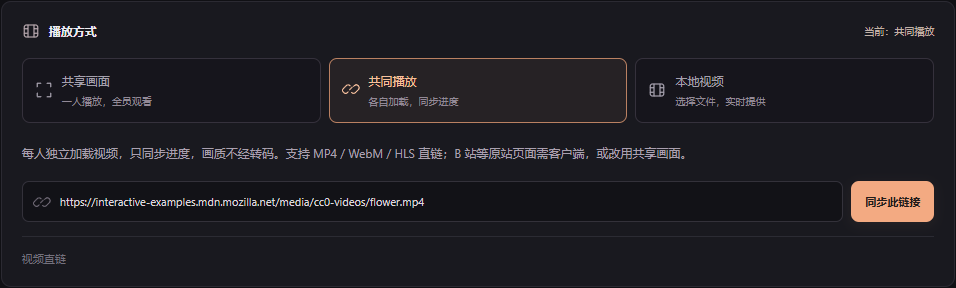
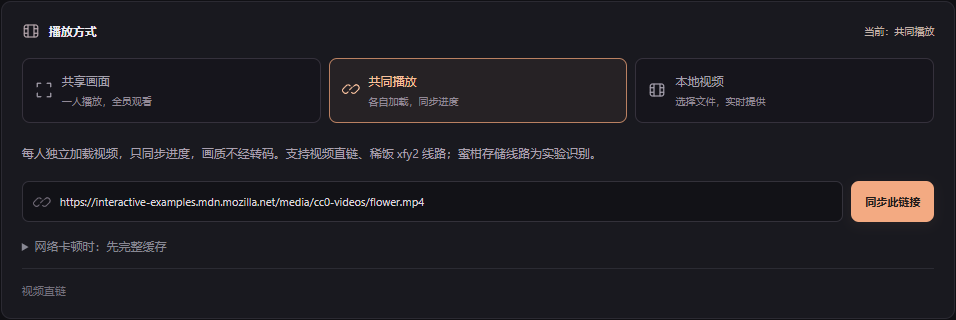
docs: refresh README with current usage and screenshots

diff --git a/README.md b/README.md
@@ -1,113 +1,154 @@
 # VideoSreeeen
 
-一个不需要浏览器扩展的多人观影程序，采用 **GPL-3.0-only**。
+无需浏览器扩展的多人观影程序。支持 **Windows、Android 和浏览器**，提供共同播放、实时画面共享、本地视频与房间聊天。
 
-客户端：**Windows、Android、浏览器**。苹果设备通过浏览器加入，不开发 macOS/iOS 原生客户端。
+**[打开网页版](https://videosreeeen.pages.dev)** · [Windows 安装版](https://github.com/BorderArea01/VideoSreeeen/releases/latest/download/VideoSreeeen-Setup.exe) · [Android APK](https://github.com/BorderArea01/VideoSreeeen/releases/latest/download/VideoSreeeen-Android.apk) · [全部发行版](https://github.com/BorderArea01/VideoSreeeen/releases) · [反馈问题](https://github.com/BorderArea01/VideoSreeeen/issues/new/choose)
 
-网页版入口：**[打开 VideoSreeeen](https://videosreeeen.pages.dev)**。无需注册、安装扩展或自行部署服务器；新客户端默认使用此公共服务。
+> **下载状态 · 2026-10-19：** v0.4.3 安装包已发布，但 GitHub Release 页面匿名访问仍返回 404，公共下载与在线更新尚未恢复。当前可先使用网页版，详情见 [公开访问记录](docs/github-access.md)。
 
-## 使用
+![VideoSreeeen 0.4.3：共同播放、房间成员、聊天与实时弹幕](docs/screenshots/desktop.png)
 
-1. 打开网页版或客户端，创建房间，填写昵称。
-2. 把自动生成的邀请链接发给成员，打开链接后即可加入。服务器地址放在高级设置，普通使用无需配置。
-3. 在播放器下方选择 **共享画面 / 共同播放 / 本地视频**，仅显示对应操作。点击方式标签只切换输入面板，不会中断正在播放的视频；右上角显示房间当前实际采用的方式。
+_当前版本的本地双端实播截图，使用 MDN CC0 示例视频；昵称和消息为演示内容，成员与 RTT 来自实际连接。_
 
-**共享画面**：默认入口，电脑浏览器选择已经播放视频的标签页，并勾选音频。尚未打开视频时展开“还没打开原站？”；单独打开网页不会开始共享。其他成员接收实时画面，进度在原站操作。
+## 开始观看
 
-**共同播放**：每人独立从视频源加载，只同步进度，不重新编码。网页版支持可播放的 MP4 / WebM / HLS 视频直链，以及 **稀饭 xfy2 旧番线路**：浏览器通过原站允许跨域的匿名播放接口获取视频源，不经过房间服务。**蜜柑存储线路仍为实验识别**，正式服务已出现原站 HTTP 403 / 520，不能保证识别成功。原站页面识别后先在提供者浏览器检查首帧加载，成功才更换房间视频；取消、超时或失败保留当前影片。其他未适配原站（如 B 站页面）会明确提示限制，并提供“改用共享画面”；客户端仍保留原站播放器控制。HLS 需要源站允许跨域访问，登录、临时地址、防盗链与设备解码支持可能影响可用性，不能保证所有视频源通用。
+1. 打开[网页版](https://videosreeeen.pages.dev)或客户端，填写昵称并创建房间，无需注册。
+2. 将自动生成的**完整邀请链接**发给朋友，对方填写昵称即可加入。
+3. 在播放器下方选择播放方式，提供视频后开始观看。
 
-**本地视频**：选择本机文件后实时提供，不需要整部上传。提供者保持在线，房间可同步暂停、进度与倍速；推荐 H.264 / AAC 的 MP4。
+普通使用无需填写服务器。自建服务地址收在“设置与帮助 → 连接设置”；邀请链接会自动选择对应服务器。邀请包含入房凭证，请只发给预期成员，六位房间号不能单独作为完整邀请使用。
 
-| 方式              | 使用场景                                | 特点                                                                  |
-| ----------------- | --------------------------------------- | --------------------------------------------------------------------- |
-| 共同播放          | 视频直链或客户端内的原站播放器          | 每人自行播放，保留原始画质；各自需要相应访问权限                      |
-| 共享原站画面      | 一位 Windows 成员在客户端打开并登录原站 | 点“共享原站画面”，其他成员接收音视频，无需登录提供方账号；不传 Cookie |
-| 标签页 / 屏幕共享 | 桌面浏览器已经打开播放器                | 通过浏览器选择标签页并勾选音频；进度和速度在提供方原播放器调整        |
-| 本地视频          | 自己的视频文件                          | 点“打开视频文件”，选择后向房间实时发送，无需整部上传，提供者需在线    |
+## 选择播放方式
 
-共同播放、本地文件及可控原站保留多人操作与服务端冲突裁决。标签页 / 屏幕共享在原站控制进度，观众只有本机声音与全屏。实时画面默认经独立视频 WebSocket 转发，采集目标最高 1080p / 30fps，按网络与设备条件调整，重新编码不保证原画无损。Android 与浏览器可以接收；Android 本地文件使用视频元素或 Canvas / Web Audio 提供画面，真机与 Safari/iOS 尚未验证。推荐 H.264/AAC MP4，其他格式取决于设备解码器。
+| 方式         | 适合什么情况                     | 视频如何到达观众                                                        | 播放控制                                           |
+| ------------ | -------------------------------- | ----------------------------------------------------------------------- | -------------------------------------------------- |
+| **共享画面** | 原站需要登录，或共同播放暂不兼容 | 一位成员提供标签页、屏幕或 Windows 客户端原站的音视频，其他成员接收画面 | 在提供方的原播放器操作；观众可调本机声音和全屏     |
+| **共同播放** | 可播放的视频直链、已适配的原站   | 各人独立加载视频，房间只同步状态，画质不经重新编码                      | 成员均可暂停、拖动和调倍速，冲突由房间服务统一处理 |
+| **本地视频** | 想播放自己电脑或手机上的文件     | 选取文件后实时提供，无需先上传整部视频；提供者保持在线                  | 房间同步暂停、进度与倍速                           |
 
-共同缓存收在“共同播放 → 网络卡顿时：先完整缓存”，默认关闭。它适合视频源可下载、有人边播边卡的情况：每人完整落盘、全员内容一致后播放，看完清理应用缓存；不能修复实时共享画面的卡顿或提升画质。网页完整缓存上限 128 MiB，长视频优先客户端。
+![播放器下方的三种播放方式与共同缓存子入口](docs/screenshots/playback-modes.png)
 
-聊天室文字和 Emoji 默认作为实时弹幕飘过视频，播放器内可关闭并在本机记住设置；加入与重连不重放旧消息，关闭期间的聊天也不补播。图片仍留在聊天室。弹幕分轨、限制长度和积压量，不拦截播放器操作；Windows 原站使用独立本地覆盖窗口，Android 使用独立可信 WebView，聊天内容不会写进原站 DOM 或烧录进共享画面。Android 真机与 Safari/iOS 仍需单独验收。
+切换方式标签只切换输入面板，不会替换正在播放的视频；提交新视频才会切换房间媒体。
 
-成员列表与底部“房间延迟”使用同一组服务端探测 RTT，约 5 秒采样，15 秒无新样本即隐藏旧数值；没有数据时显示 `—`。悬停可查看含义：这是到房间服务器的往返延迟，不能当作共享画面的端到端延迟。新客户端使用独立延迟通知，避免把测量更新当作播放确认；旧客户端仍兼容房间状态通知。
+- **共享画面怎么开始？** 在电脑浏览器打开并播放原站，回到房间点“共享视频标签页”，在浏览器选择窗口中选中该标签页并开启音频。仅点击“打开原站”不会开始共享。Windows 客户端也可在内置原站播放器中选择“共享原站画面”。
+- **共同播放怎么开始？** 粘贴可播放的 MP4 / WebM / HLS 直链，或受支持的原站页面。页面识别后先检查提供者能否加载首帧，成功才替换房间视频；失败或取消保留当前影片。
+- **本地文件怎么选？** 点“本地视频 → 打开视频文件”。推荐 H.264 / AAC 的 MP4，其他编码取决于设备支持。
 
-**共同缓存默认关闭。** 仅在大家都卡时展开“共同缓存”手动启用；适用于可完整下载的 MP4 / DASH 等源，各人完整落盘并校验一致后播放，看完清理。实时画面不使用共同缓存。浏览器完整缓存上限仍为 128 MiB，长视频缓存使用客户端。
+## 房间功能
 
-聊天室固定高度，消息在内部上下滚动；上翻历史时新消息不会强行拉回底部。支持文字、Emoji 和单张最多 **20 MiB** 的 GIF / PNG / JPEG / WebP 原图，输入框支持直接粘贴截图或剪贴板图片，发送图片保留现有文字草稿。点击可查看原图，GIF 不强制转成静态图片。图片独立传输，聊天快照只存引用；单房间图片总量 64 MiB，历史滚动或房间过期后清理。侧栏可以隐藏、拖拽，成员旁显示到房间服务的真实 RTT。
+- **文字、Emoji 与图片聊天**：聊天室固定高度、内部滚动，查看历史时不被新消息强行拉到底部；侧栏可隐藏和拖拽。
+- **粘贴截图**：输入框支持直接粘贴剪贴板图片，保留文字草稿。GIF / PNG / JPEG / WebP 单张最多 **20 MiB**，可查看原图；单房间图片总量限 64 MiB。
+- **实时聊天弹幕**：新文字和 Emoji 可以飘过视频，支持关闭；重连不重放历史消息。图片留在聊天室，弹幕不会烧录进共享画面。
+- **成员延迟**：显示实际测得的服务器 RTT，过期显示未知。这是到房间服务的往返延迟，**不是画面延迟**。
+- **下一集**：共同播放可读取原站明确提供的下一集地址，统一为房间换片；喜番为同番同线路，蜜柑为客户端原站配置，B 站为同一 BV 的下一分 P。末集或识别失败不影响当前视频。
+- **手动共同缓存**：收在共同播放分支，默认关闭。适合可下载的视频源，不能用于实时画面。
 
-共同播放的视频来源栏提供“下一集”：读取原站明确给出的下一集地址，由房间服务统一切换，全员仍使用同一控制冲突规则。喜番支持同一番剧和线路；蜜柑客户端读取原站播放配置；B 站支持同一 BV 视频的下一分 P，不把推荐视频或广告当作下一集。正在播放时切集，提供者加载出首帧后再让全员开始；暂停时切集保持暂停。到末集、识别失败或已被其他成员换片时保留现有视频。纯浏览器蜜柑仍受原站对服务器访问的限制。
+<details>
+<summary>手机浏览器界面</summary>
 
-**客户端：[Windows 安装版](https://github.com/BorderArea01/VideoSreeeen/releases/latest/download/VideoSreeeen-Setup.exe) · [Android APK](https://github.com/BorderArea01/VideoSreeeen/releases/latest/download/VideoSreeeen-Android.apk) · [全部版本与校验和](https://github.com/BorderArea01/VideoSreeeen/releases)。**
+<img src="docs/screenshots/mobile.png" alt="390px 手机浏览器布局：视频、播放方式、成员和可滚动聊天室" width="300">
 
-当前 GitHub 账号的匿名公开访问异常：主页、仓库和 Release 返回 404，公共下载与在线更新暂不可用；安装包已生成并上传，详情和支持请求草稿见 [github-access.md](docs/github-access.md)。网页与房间服务可使用。
+截图为桌面浏览器的 390px 视口，展示响应式布局，不代表 Android 或 iOS 真机验收。
 
-Windows 安装版支持应用内下载和重启更新，便携版仍提供。Android 应用内下载后交给系统确认安装，正式版保持固定包名和签名，不需要卸载旧版；之前的 debug APK 与首个正式 APK 签名不同，不能直接覆盖。苹果设备使用网页版。发布与签名维护见 [updates.md](docs/updates.md)。
+</details>
 
-原站的登录、画质与付费权限仍由原站决定，提供方自行完成验证。浏览器不能直接控制跨站 iframe；可以接收成员共享的实时音视频。画面默认通过独立 WebSocket 正式转发，不再等待直连失败，也不并行启动视频 WebRTC 编码。共享者可选流畅、高清（默认）或高画质；接收端使用约 2.5 秒起步的短缓冲抵御网络波动。使用现有 Workers Free 额度，不启用收费 TURN，额度超限时会不可用。共同缓存仍是单独的手动模式。
+## 原站兼容情况
 
-**客户端 B 站登录**：在“设置与帮助 → 原站账号 · B 站登录”打开官方登录页，可扫码或按原站正常流程登录。关闭登录窗口会刷新当前 B 站原站播放器。登录会话保存在本机客户端，与原站播放器共用；Cookie 不返回给房间页面、不上传服务器，也不导入系统浏览器的 Cookie。退出账号请在该原站窗口操作。共同播放时每位客户端使用自己的访问权限，不能用一个人的登录态让所有人获得相同画质；需要由一人提供画面时，仍可选共享画面。网页版没有跨站读取 Cookie 的入口。
+以下是 **0.4.3 的实际验证范围**，不是对站点全部线路和视频的保证。
 
-2026-10-19 复验中，双 Windows 原站共同播放已实际解码 B 站游客 360p、蜜柑 1080p，并同步暂停、进度、倍速和原站内拖动。蜜柑 Windows 提供源、浏览器观看也通过；纯网页版蜜柑识别和 B 站 CDN 直链仍有限制。详见 [原站与本地登录验证](docs/verification-native-sites.md)，不以 Windows 测试代替 Android 或登录后高清验收。
+| 视频来源                       | 纯浏览器共同播放                                     | Windows 客户端共同播放                               |
+| ------------------------------ | ---------------------------------------------------- | ---------------------------------------------------- |
+| MP4 / WebM / HLS 视频直链      | 支持；需要源站允许访问、跨域和设备支持解码           | 支持；仍受源站访问权限与编码限制                     |
+| 喜番／稀饭 `next.xifanacg.com` | 已实播验证 xfy2 旧番线路 1080p、音频、同步和下一集   | 可使用已适配的视频源；其他线路需分别验证             |
+| 蜜柑 `mgnacg.com`              | 存储线路为实验识别，存在原站 403 / 520，不能保证可用 | 已实播验证原站 1080p、音频、双端同步和下一集         |
+| B 站 `bilibili.com/video`      | 暂不能把页面当作通用直链播放，建议共享画面           | 已实播验证游客 360p 原站同步；登录后高清仍需单独验收 |
 
-邀请包含入房凭证，请发给预期成员。六位房间号不能独立加入，跨服务器请使用完整邀请链接。Windows、Android、公开网页的验证边界见 [verification.md](docs/verification.md)。
+原站仍可能因线路调整、登录、临时链接、防盗链或网络条件失效。识别到 URL 不等于能播放，具体证据见 [原站验证](docs/verification-native-sites.md)、[共同播放与聊天验证](docs/verification-chat-playback.md)。
 
-![VideoSreeeen 播放方式选择](docs/screenshots/playback-modes.png)
+**B 站登录态只留在本机。** 客户端通过官方页面登录并复用自己的原站会话，不读取系统浏览器 Cookie、不把 Cookie 上传服务器或交给房间成员。共同播放时每个人使用自己的访问权限；希望由一人提供画面时，选择共享画面。登录、付费和 DRM 限制仍由原站决定。
 
-## 本地启动
+## 客户端与更新
 
-需要 Node.js 22+、npm。开发依赖使用锁文件固定。
+| 平台                | 入口                                                                                                                                                                    | 当前边界                                                         |
+| ------------------- | ----------------------------------------------------------------------------------------------------------------------------------------------------------------------- | ---------------------------------------------------------------- |
+| Windows x64         | [安装版](https://github.com/BorderArea01/VideoSreeeen/releases/latest/download/VideoSreeeen-Setup.exe)／[便携版](https://github.com/BorderArea01/VideoSreeeen/releases) | 安装版支持应用内下载并重启更新，已做实际成品验证                 |
+| Android 8.0+        | [APK](https://github.com/BorderArea01/VideoSreeeen/releases/latest/download/VideoSreeeen-Android.apk)                                                                   | 应用内下载后由系统确认覆盖安装；已生成发行包，设备实测待补齐     |
+| 浏览器              | [直接打开](https://videosreeeen.pages.dev)                                                                                                                              | 无需安装；标签页共享由电脑浏览器发起，移动端按实际浏览器能力使用 |
+| iPhone / iPad / Mac | [浏览器入口](https://videosreeeen.pages.dev)                                                                                                                            | 不开发苹果原生客户端；Safari / iOS 实播、后台与锁屏仍待验收      |
 
-```powershell
+更新和下载目前受上方 GitHub 公开访问问题影响。Android 正式版保持固定包名和签名，可覆盖同签名旧版；早期 debug APK 与正式版签名不同，不能直接覆盖。发布步骤、签名与校验和说明见 [更新与分发](docs/updates.md)。
+
+## 使用前了解
+
+**实时共享有缓冲与画质损耗。** 默认经独立 WebSocket 视频通道转发，不依赖远程 WebRTC 直连成功。提供者可选流畅、高清或高画质，采集目标最高 1080p / 30fps；实际效果取决于设备与网络，接收端约 2.5 秒起步缓冲。目前最多 4 位观众接收，提供者保持在线。
+
+**公共服务有免费额度限制。** 当前使用 Cloudflare Workers Free + Durable Objects，不启用收费 TURN，也不自动升级付费。额度耗尽或网络不可达时可能无法使用；开源用户可自行部署。公共部署关闭原站视频文件代理，视频直链共同播放仍从原 CDN 加载。
+
+<details>
+<summary>共同缓存适合什么情况？有哪些限制？</summary>
+
+当大家能取得视频源，但边播边看容易卡顿时，可以展开“共同播放 → 网络卡顿时：先完整缓存”。每人先完整下载并校验内容一致，全员就绪后播放。它不能提升原画质，也不能修复实时画面共享的卡顿。
+
+| 平台              | 完整缓存范围                                                                                                 |
+| ----------------- | ------------------------------------------------------------------------------------------------------------ |
+| Windows / Android | 完整文件、分离音视频和有限的非加密 HLS；默认最多 4 GiB，预留 256 MiB 磁盘空间                                |
+| 浏览器            | 已知长度的小型文件／分离音视频；每轨最多 96 MiB，总计最多 128 MiB，受浏览器存储配额限制；不支持完整 HLS 缓存 |
+
+MP4 / DASH 分块可在同房间成员间通过 WebRTC 互传，直连失败时回退源站下载；HLS 暂不支持互传，不接入公共磁力网络、DHT 或 Tracker。
+
+全员结束后清理本应用创建的缓存，不删除用户原有文件。异常退出的原生缓存下次启动清扫；浏览器遗留缓存超过 24 小时后在后续访问清理，避免影响其他活跃标签页。
+
+</details>
+
+## 本地开发
+
+需要 **Node.js 22+、npm**。从源码启动：
+
+```sh
 npm ci
 npm run build
 npm start
 ```
 
-浏览器打开 `http://localhost:8787`。Windows 可直接运行便携版 EXE，或运行 `npm run desktop`；顶部的“打开网页版”会打开当前服务器地址。Windows 客户端仍内置房间服务，可以在连接设置切换到电脑的局域网地址。端口被其他进程占用时改用空闲端口，不停止其他进程。退出 Windows 客户端会停止它自己的内置服务，不影响公共服务。
+打开 `http://localhost:8787`。开发时分别运行 `npm run dev` 和 `npm run dev:ui`；Windows 壳使用 `npm run desktop`，复用已构建的界面与服务。
 
-手机使用默认公共服务时不需配置。自建用户在高级设置填写可达地址，而不是手机自己的 `localhost`；完整邀请自动选择对应服务器。局域网外自建需要部署公网 HTTPS 服务。Windows 防火墙需允许对应端口连接，程序不会自行修改防火墙。本机开发请遵守下方受控构建要求。
+```sh
+npm run verify            # 格式、单元测试、构建、Worker 类型和 dry-run
+npm run test:worker       # 本地 Workers / Durable Objects 集成验证
+npm run package:windows   # Windows x64 安装版与便携版
+```
 
-开发时可分别运行 `npm run dev`（房间服务）和 `npm run dev:ui`（界面）。公开服务必须配置 HTTPS/WSS，代理需支持 WebSocket。Node 自建服务可转发链接视频；实时画面默认使用独立 `/broadcast-relay` 通道，原有直连实现保留供兼容部署使用。
-
-## 构建与验证
-
-本机已经授权无游戏时直接构建，但每轮都必须检测真实游戏进程和资源，不依据窗口或网页标题判断。
+维护工作站的构建与验收通过 `scripts/controlled.ps1` 串行运行，参数遵守 [AGENTS.md](AGENTS.md)。例如：
 
 ```powershell
 ./scripts/controlled.ps1 -File npm.cmd -Arguments @('run','build') -PrioritizeBuildWhenNoGame
-./scripts/controlled.ps1 -File npm.cmd -Arguments @('test') -PrioritizeBuildWhenNoGame
-./scripts/controlled.ps1 -File npm.cmd -Arguments @('run','package:windows') -PrioritizeBuildWhenNoGame
+```
+
+Android 需要 JDK 17+、Android SDK 35、Gradle 8.13；先构建前端，再生成 APK：
+
+```powershell
 ./scripts/build-android.ps1 -SdkRoot '你的 Android SDK 目录' -Gradle '你的 Gradle 8.13/bin/gradle.bat'
 ```
 
-Android 需要 JDK 17+、Android SDK 35、Gradle 8.13。输出调试 APK 为新的独立包 `io.github.borderarea01.videosreeeen`，不覆盖其他应用。Android 发行签名应单独配置，不提交 keystore。
+Windows 产物在 `artifacts/windows/`，APK 在 `artifacts/android/`。发行 APK 需要固定签名，详见 [更新与分发](docs/updates.md)；不要提交签名文件或密钥。
 
-`npm run test:ui` 使用一个 Edge 浏览器上下文、两个页面验证实际房间和真实 CC0 视频，再串行检查 Windows 壳及目标站点；全程静音，截图和结构化证据位于 `.local/`。需要本机 Edge。公网媒体或站点不可访问会导致相应验收失败，不作为通过处理。
+涉及播放器、邀请、聊天、互传或原站适配时，还需运行对应端到端验收。现有浏览器脚本使用 Windows Edge；不能以桌面视口测试代替手机真机验证。检查入口与证据见 [验证记录](docs/verification.md)。
 
-## 共同缓存的范围
+## 自行部署
 
-Windows/Android：支持完整文件、分离音视频和有限、非加密 HLS（含音频子列表）；流式落盘，默认最多 4 GiB 且预留 256 MiB 磁盘空间。直播、加密、字节范围 HLS 和超过分片上限的源明确拒绝。所有端必须选择相同媒体版本。
+| 方案                 | 需要什么                                               | 说明                                                                                                                    |
+| -------------------- | ------------------------------------------------------ | ----------------------------------------------------------------------------------------------------------------------- |
+| **Cloudflare**       | Workers Free、SQLite Durable Objects；可选 Pages 入口  | 无需 VPS 或独立数据库，房间状态持久化；受免费额度限制。[部署指南](docs/cloudflare.md)                                   |
+| **Node.js / Docker** | 可运行 Node 的服务器及支持 WebSocket 的 HTTPS 反向代理 | 保留自建后端和视频中转。提供 [Dockerfile](Dockerfile) 与 [compose.yaml](compose.yaml)；房间状态在内存中，重启需重新建房 |
 
-浏览器：当前支持带已知长度的小型文件/分离音视频完整缓存，每轨最多 96 MiB、总计最多 128 MiB，并受存储配额限制；大视频和完整 HLS 缓存请使用客户端。分块先落存储，最后在有上限的内存中组装播放；原生端不整片读入内存。浏览器异常退出的缓存下次访问超过 24 小时才清理，避免清理其他活跃标签页。原生客户端下次启动会清扫上次遗留的应用缓存。
+公开部署需提供 HTTPS / WSS。Node 服务默认监听 `0.0.0.0:8787`，可通过 `HOST`、`PORT`、`ALLOWED_ORIGINS` 配置；空房间 15 分钟后清理，`/healthz` 用于健康检查。当前 Node 后端不支持多节点共享房间。
 
-自动清理不删除用户原有视频或其他应用数据。全员结束前，先结束的成员仍保留自己的缓存，方便等候其他人。
+自建域名需更新 `.env.production` 中的公开变量 `VITE_PUBLIC_SERVER`，并配置允许的前端来源；不要把密钥放入前端环境变量。手机访问自建服务应填写可达地址，不能填手机自己的 `localhost`。
 
-## 部署
+## 贡献与许可
 
-0.2 提供 **Cloudflare Workers + Durable Objects 免费计划适配**，同一个地址提供网页、房间、聊天和同步；视频由成员设备互传或直接下载。部署步骤、免费额度和兼容边界见 [cloudflare.md](docs/cloudflare.md)。本地测试通过不代表已上线，实际部署状态见 [verification.md](docs/verification.md)。
+欢迎提交问题和改进。反馈时请附版本、平台、复现步骤和可公开的视频页面，隐藏邀请凭证、Cookie 与令牌。
 
-当前使用 Pages 免费入口，通过内部 Service Binding 连接房间 Worker，避免客户端必须访问 `workers.dev`。`.env.production` 只保存可公开的默认服务网址；自行部署时替换 `VITE_PUBLIC_SERVER`，不要在其中放密钥。
-
-原有 Node 自建部署继续保留，提供视频中转：
-
-可使用 [Dockerfile](Dockerfile) 或 [compose.yaml](compose.yaml)。`PORT` 默认 8787，`HOST` 默认 `0.0.0.0`；`ALLOWED_ORIGINS` 为逗号分隔的允许来源，请加入实际网站的 HTTPS origin，并保留需要的原生客户端 origin。
-
-```text
-公网 HTTPS/WSS 代理 → VideoSreeeen :8787 → 公网视频源
-```
-
-首版房间与聊天在内存中；进程重启后邀请失效，需要重新建房。空房间保留 15 分钟；断线席位等待 30 秒。首版不支持多节点共享房间。`/healthz` 提供健康检查，不包含邀请和成员令牌。
-
-更多设计见 [architecture.md](docs/architecture.md)，参与和反馈见 [贡献指南](CONTRIBUTING.md)。代码仓库：[BorderArea01/VideoSreeeen](https://github.com/BorderArea01/VideoSreeeen)。
+- [贡献指南](CONTRIBUTING.md) · [架构说明](docs/architecture.md) · [版本记录](docs/release-notes.md)
+- 许可证：**[GPL-3.0-only](LICENSE)**；第三方依赖与研究参考见 [THIRD_PARTY.md](THIRD_PARTY.md)。
+- 参考项目：[Bili-SyncPlay](https://github.com/sky1wu/Bili-SyncPlay)、[VideoTogether](https://github.com/VideoTogether/VideoTogether)。本项目为独立实现，未整体导入它们的代码。
